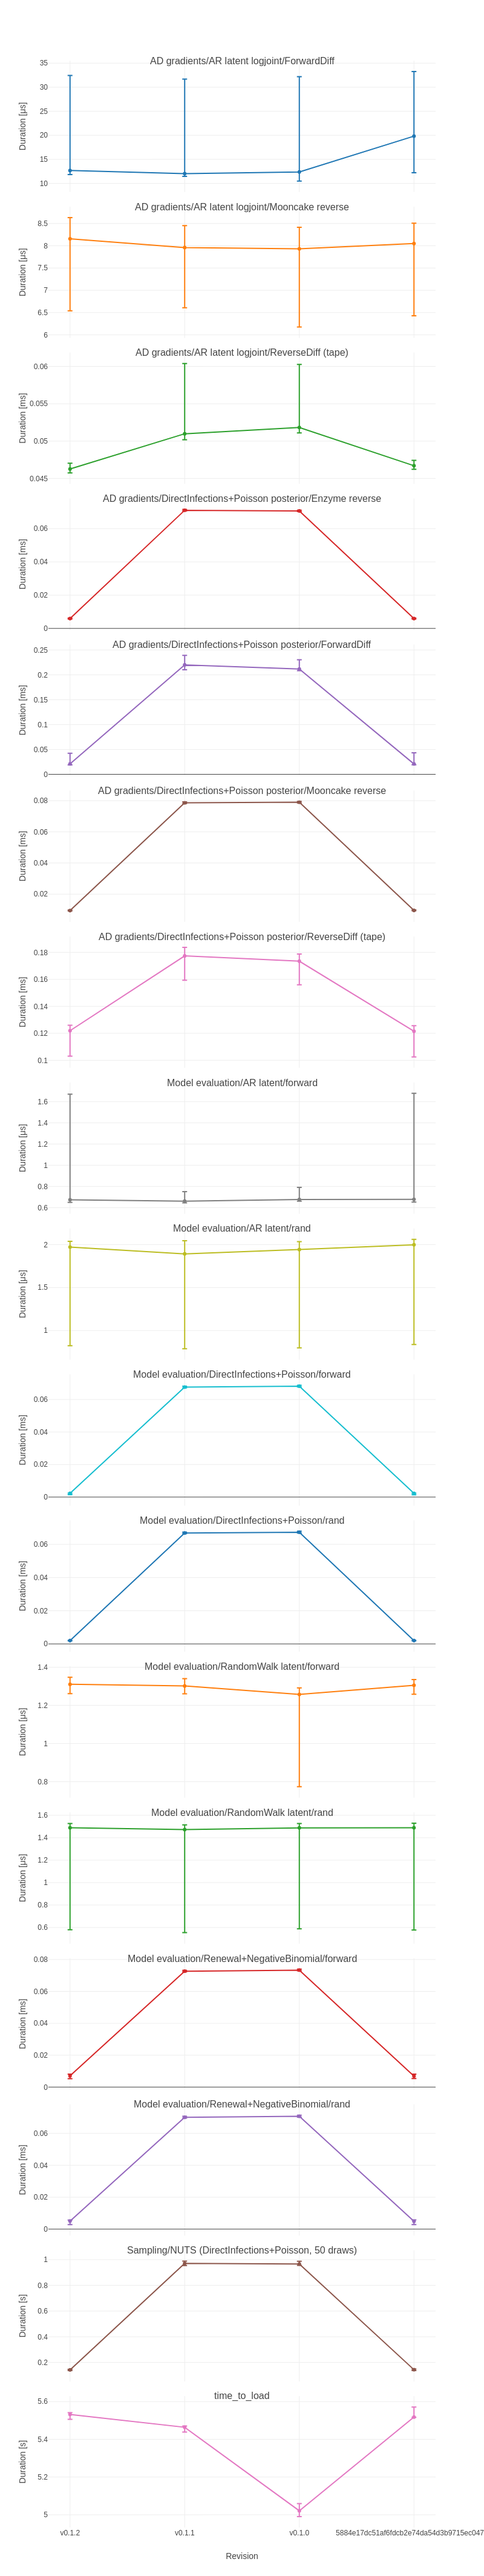
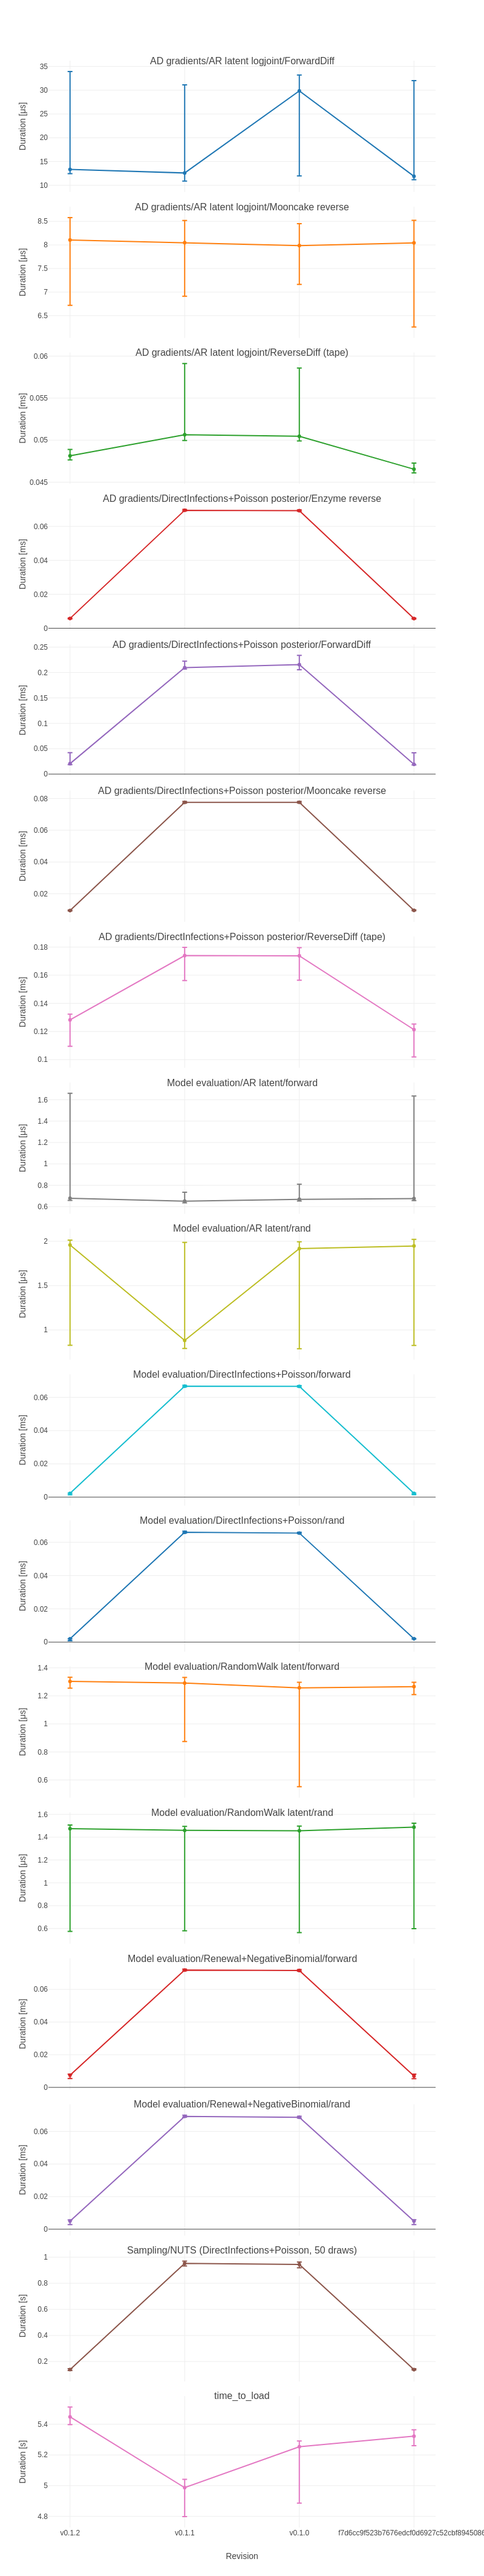
Deploying to benchmarks from @ EpiAware/ComposableTuringIDModels.jl@f7d6cc9f523b7676edcf0d6927c52cbf89450861 🚀

Changed region(s): [[0.5938, 0.0932, 0.625, 0.1242], [0.375, 0.6522, 0.4062, 0.6833], [0.0625, 0.3727, 0.0938, 0.4038]]

diff --git a/history/table.md b/history/table.md
@@ -1,24 +1,24 @@
-|                                                                    | v0.1.2             | v0.1.1              | v0.1.0              | 5884e17dc51af6...  |
+|                                                                    | v0.1.2             | v0.1.1              | v0.1.0              | f7d6cc9f523b76...  |
 |:-------------------------------------------------------------------|:------------------:|:-------------------:|:-------------------:|:------------------:|
-| AD gradients/AR latent logjoint/ForwardDiff                        | 12.7 ± 21 μs       | 12 ± 20 μs          | 12.4 ± 22 μs        | 19.8 ± 21 μs       |
-| AD gradients/AR latent logjoint/Mooncake reverse                   | 8.16 ± 2.1 μs      | 7.96 ± 1.8 μs       | 7.93 ± 2.2 μs       | 8.05 ± 2.1 μs      |
-| AD gradients/AR latent logjoint/ReverseDiff (tape)                 | 0.0463 ± 0.0013 ms | 0.051 ± 0.01 ms     | 0.0518 ± 0.0092 ms  | 0.0467 ± 0.0012 ms |
-| AD gradients/DirectInfections+Poisson posterior/Enzyme reverse     | 5.93 ± 0.48 μs     | 0.071 ± 0.00086 ms  | 0.0706 ± 0.00085 ms | 5.93 ± 0.5 μs      |
-| AD gradients/DirectInfections+Poisson posterior/ForwardDiff        | 21 ± 23 μs         | 0.22 ± 0.029 ms     | 0.212 ± 0.022 ms    | 20.9 ± 24 μs       |
-| AD gradients/DirectInfections+Poisson posterior/Mooncake reverse   | 9.45 ± 0.47 μs     | 0.0786 ± 0.001 ms   | 0.079 ± 0.00098 ms  | 9.57 ± 0.48 μs     |
-| AD gradients/DirectInfections+Poisson posterior/ReverseDiff (tape) | 0.122 ± 0.023 ms   | 0.177 ± 0.024 ms    | 0.173 ± 0.023 ms    | 0.122 ± 0.023 ms   |
-| Model evaluation/AR latent/forward                                 | 0.674 ± 1 μs       | 0.661 ± 0.11 μs     | 0.676 ± 0.13 μs     | 0.678 ± 1 μs       |
-| Model evaluation/AR latent/rand                                    | 1.97 ± 1.2 μs      | 1.89 ± 1.3 μs       | 1.94 ± 1.2 μs       | 2 ± 1.2 μs         |
-| Model evaluation/DirectInfections+Poisson/forward                  | 2.29 ± 0.94 μs     | 0.0676 ± 0.00097 ms | 0.0682 ± 0.00099 ms | 2.27 ± 0.99 μs     |
-| Model evaluation/DirectInfections+Poisson/rand                     | 2.02 ± 0.13 μs     | 0.0668 ± 0.00095 ms | 0.0673 ± 0.001 ms   | 2.03 ± 0.16 μs     |
-| Model evaluation/RandomWalk latent/forward                         | 1.31 ± 0.086 μs    | 1.3 ± 0.079 μs      | 1.26 ± 0.52 μs      | 1.31 ± 0.077 μs    |
-| Model evaluation/RandomWalk latent/rand                            | 1.49 ± 0.95 μs     | 1.47 ± 0.96 μs      | 1.49 ± 0.94 μs      | 1.49 ± 0.95 μs     |
-| Model evaluation/Renewal+NegativeBinomial/forward                  | 7.05 ± 2.8 μs      | 0.0727 ± 0.001 ms   | 0.0733 ± 0.0011 ms  | 6.92 ± 2.8 μs      |
-| Model evaluation/Renewal+NegativeBinomial/rand                     | 5.04 ± 2.8 μs      | 0.07 ± 0.0012 ms    | 0.0707 ± 0.0013 ms  | 4.9 ± 2.9 μs       |
-| Sampling/NUTS (DirectInfections+Poisson, 50 draws)                 | 0.142 ± 0.0092 s   | 0.97 ± 0.034 s      | 0.966 ± 0.032 s     | 0.144 ± 0.013 s    |
-| time_to_load                                                       | 5.53 ± 0.036 s     | 5.46 ± 0.032 s      | 5.02 ± 0.069 s      | 5.52 ± 0.055 s     |
+| AD gradients/AR latent logjoint/ForwardDiff                        | 13.3 ± 21 μs       | 12.6 ± 20 μs        | 29.9 ± 21 μs        | 11.9 ± 21 μs       |
+| AD gradients/AR latent logjoint/Mooncake reverse                   | 8.11 ± 1.9 μs      | 8.05 ± 1.6 μs       | 7.99 ± 1.3 μs       | 8.04 ± 2.3 μs      |
+| AD gradients/AR latent logjoint/ReverseDiff (tape)                 | 0.0481 ± 0.0012 ms | 0.0507 ± 0.0092 ms  | 0.0505 ± 0.0087 ms  | 0.0466 ± 0.0012 ms |
+| AD gradients/DirectInfections+Poisson posterior/Enzyme reverse     | 5.76 ± 0.49 μs     | 0.0694 ± 0.00083 ms | 0.0692 ± 0.00081 ms | 5.73 ± 0.51 μs     |
+| AD gradients/DirectInfections+Poisson posterior/ForwardDiff        | 20.6 ± 24 μs       | 0.21 ± 0.016 ms     | 0.216 ± 0.028 ms    | 19.2 ± 24 μs       |
+| AD gradients/DirectInfections+Poisson posterior/Mooncake reverse   | 9.45 ± 0.48 μs     | 0.0776 ± 0.001 ms   | 0.0776 ± 0.00098 ms | 9.56 ± 0.46 μs     |
+| AD gradients/DirectInfections+Poisson posterior/ReverseDiff (tape) | 0.128 ± 0.023 ms   | 0.174 ± 0.024 ms    | 0.174 ± 0.023 ms    | 0.121 ± 0.023 ms   |
+| Model evaluation/AR latent/forward                                 | 0.679 ± 1 μs       | 0.652 ± 0.099 μs    | 0.669 ± 0.16 μs     | 0.676 ± 0.98 μs    |
+| Model evaluation/AR latent/rand                                    | 1.96 ± 1.2 μs      | 0.882 ± 1.2 μs      | 1.92 ± 1.2 μs       | 1.95 ± 1.2 μs      |
+| Model evaluation/DirectInfections+Poisson/forward                  | 2.27 ± 0.96 μs     | 0.0667 ± 0.00097 ms | 0.0666 ± 0.00089 ms | 2.27 ± 0.97 μs     |
+| Model evaluation/DirectInfections+Poisson/rand                     | 1.98 ± 1.2 μs      | 0.066 ± 0.0011 ms   | 0.0655 ± 0.00083 ms | 2.03 ± 0.14 μs     |
+| Model evaluation/RandomWalk latent/forward                         | 1.3 ± 0.078 μs     | 1.29 ± 0.46 μs      | 1.26 ± 0.74 μs      | 1.27 ± 0.087 μs    |
+| Model evaluation/RandomWalk latent/rand                            | 1.47 ± 0.93 μs     | 1.46 ± 0.91 μs      | 1.46 ± 0.93 μs      | 1.49 ± 0.92 μs     |
+| Model evaluation/Renewal+NegativeBinomial/forward                  | 7.49 ± 2.7 μs      | 0.0718 ± 0.001 ms   | 0.0716 ± 0.00098 ms | 6.97 ± 2.8 μs      |
+| Model evaluation/Renewal+NegativeBinomial/rand                     | 5 ± 2.9 μs         | 0.0692 ± 0.0013 ms  | 0.0687 ± 0.0012 ms  | 4.96 ± 2.9 μs      |
+| Sampling/NUTS (DirectInfections+Poisson, 50 draws)                 | 0.139 ± 0.014 s    | 0.952 ± 0.037 s     | 0.944 ± 0.044 s     | 0.138 ± 0.0099 s   |
+| time_to_load                                                       | 5.45 ± 0.11 s      | 4.99 ± 0.24 s       | 5.25 ± 0.4 s        | 5.32 ± 0.1 s       |
 
-|                                                                    | v0.1.2                    | v0.1.1                    | v0.1.0                    | 5884e17dc51af6...         |
+|                                                                    | v0.1.2                    | v0.1.1                    | v0.1.0                    | f7d6cc9f523b76...         |
 |:-------------------------------------------------------------------|:-------------------------:|:-------------------------:|:-------------------------:|:-------------------------:|
 | AD gradients/AR latent logjoint/ForwardDiff                        | 0.059 k allocs: 0.0512 MB | 0.056 k allocs: 0.0508 MB | 0.056 k allocs: 0.0508 MB | 0.059 k allocs: 0.0512 MB |
 | AD gradients/AR latent logjoint/Mooncake reverse                   | 0.043 k allocs: 4.64 kB   | 0.036 k allocs: 4.42 kB   | 0.036 k allocs: 4.42 kB   | 0.043 k allocs: 4.64 kB   |

diff --git a/history/README.md b/history/README.md
@@ -1,6 +1,6 @@
 # ComposableTuringIDModels.jl benchmark history
 
-Revisions: v0.1.2,v0.1.1,v0.1.0,5884e17dc51af6fdcb2e74da54d3b9715ec0472e
+Revisions: v0.1.2,v0.1.1,v0.1.0,f7d6cc9f523b7676edcf0d6927c52cbf89450861
 
 See `table.md` for the ratio summary and the PNG
 files in this folder for per-benchmark timelines.
